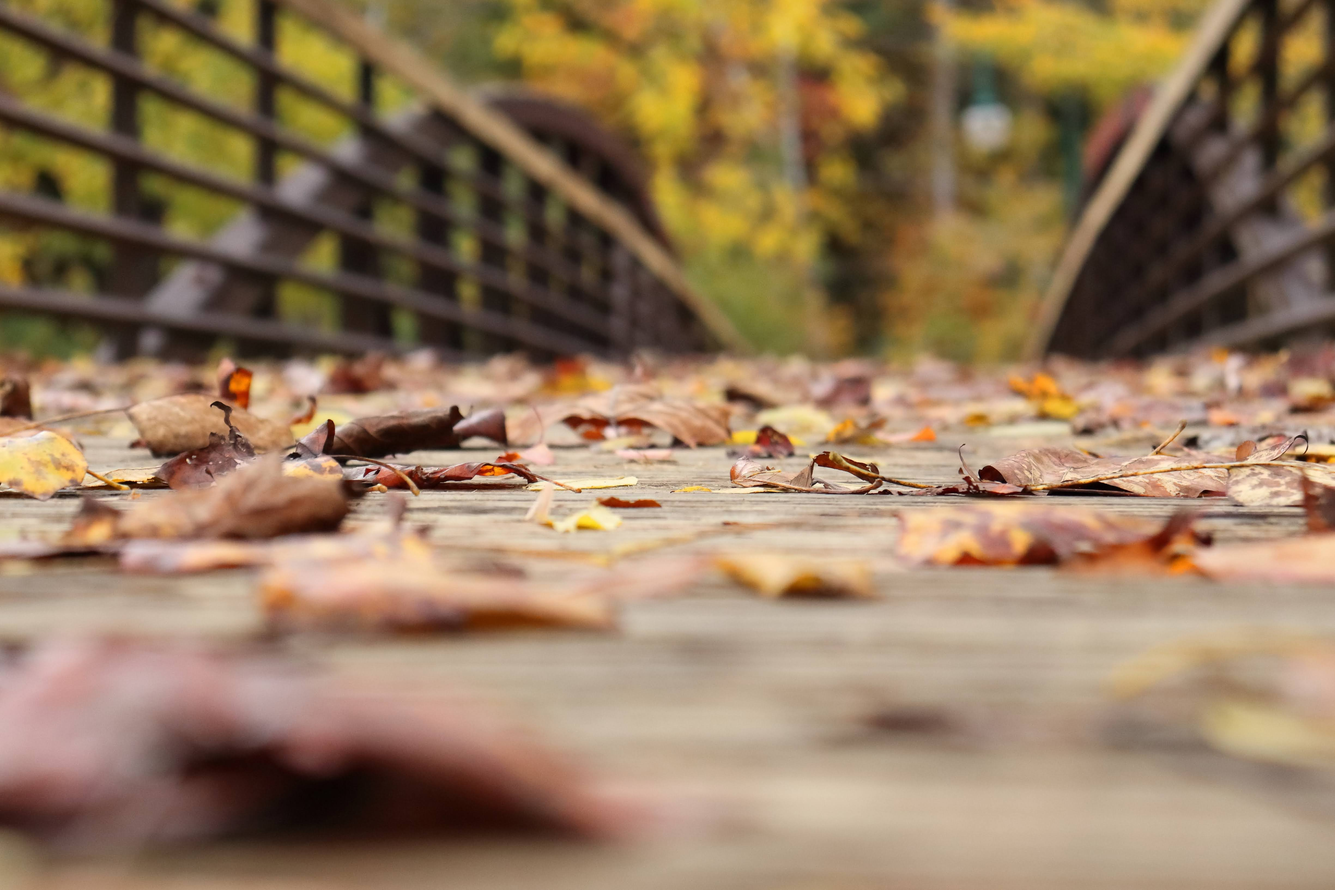
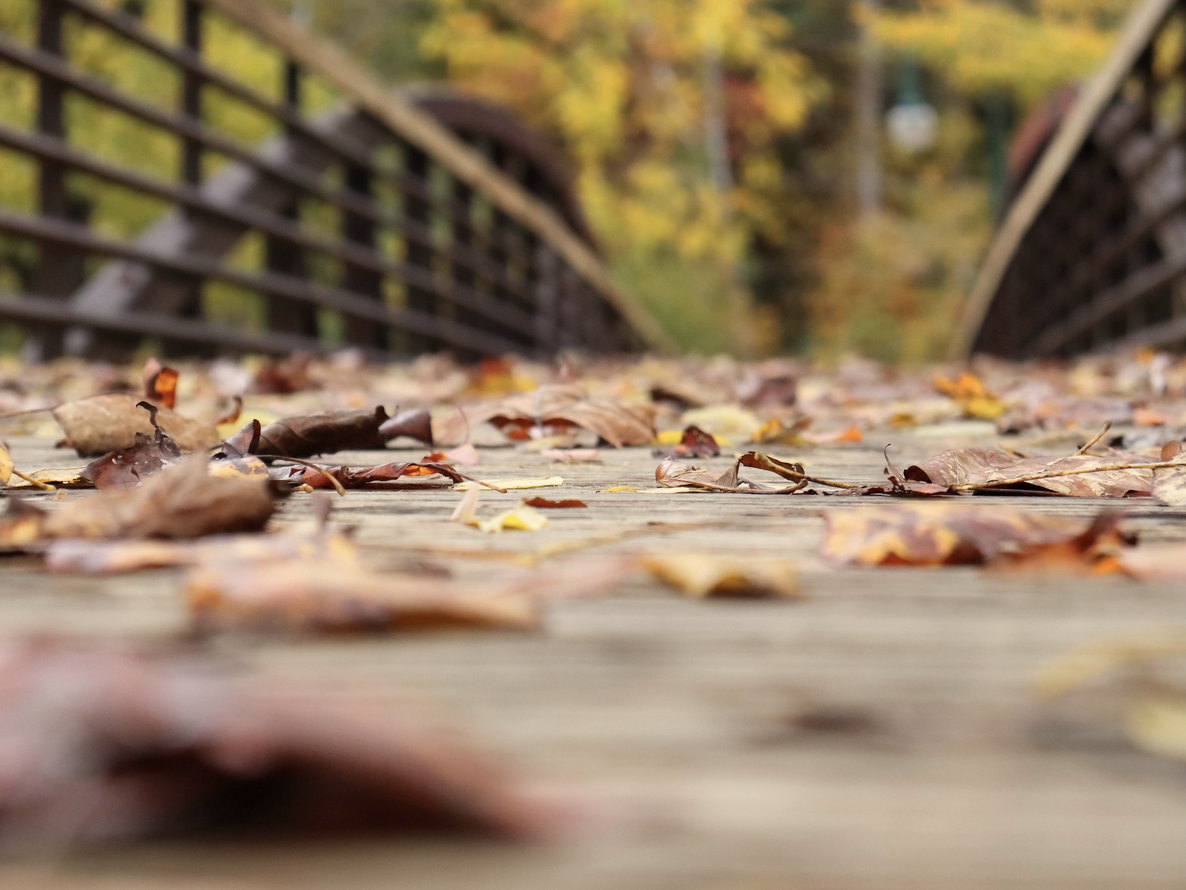
kk

diff --git a/newIndex.html b/newIndex.html
@@ -27,7 +27,7 @@
     </div>
     <div class="container-fluid" id="portfolio">
         <div class="h-100 d-flex justify-content-center align-items-center">
-            <div class="carousel slide" id="slides" data-ride="carousel">
+            <div class="carousel slide p-5" id="slides" data-ride="carousel">
                 <ol class="carousel-indicators">
                     <li data-target="#slides" data-slide-to="0"></li>
                     <li data-target="#slides" data-slide-to="1"></li>
@@ -35,13 +35,13 @@
                 </ol>
                 <div class="carousel-inner">
                     <div class="carousel-item active">
-                        <img class="d-block w-100" src="./bridge.JPG" alt="bridge, slide 1">
+                        <img class="d-block w-100 portfolioImages" src="./bridge.JPG" alt="bridge, slide 1">
                     </div>
                     <div class="carousel-item">
-                        <img class="d-block w-100" src="./dog.jpg" alt="dog, slide 2">
+                        <img class="d-block w-100 portfolioImages" src="./dog.jpg" alt="dog, slide 2">
                     </div>
                     <div class="carousel-item">
-                        <img class="d-block w-100" src="./creekLongExposure.jpg" alt="creek, slide 3">
+                        <img class="d-block w-100 portfolioImages" src="./creekLongExposure.jpg" alt="creek, slide 3">
                     </div>
                 </div>
                 <a class="carousel-control-prev" href="#slides" role="button" data-slide="prev">

diff --git a/newIndex.css b/newIndex.css
@@ -12,6 +12,14 @@ h1, h5 {
     border-bottom: thin solid#00adb5;
 }
 
+.backgroundColor {
+    background-color: rgba(0, 0, 0, 0.6);
+}
+
+.portfolioImages {
+    width: 75%;
+}
+
 #opening {
     height: 100vh;
     background-image: url(./openingBackground.JPG);
@@ -20,8 +28,4 @@ h1, h5 {
     background-repeat: no-repeat;
     background-size: cover;
     min-height: 100%;
-}
-
-.backgroundColor {
-    background-color: rgba(0, 0, 0, 0.6);
 }
